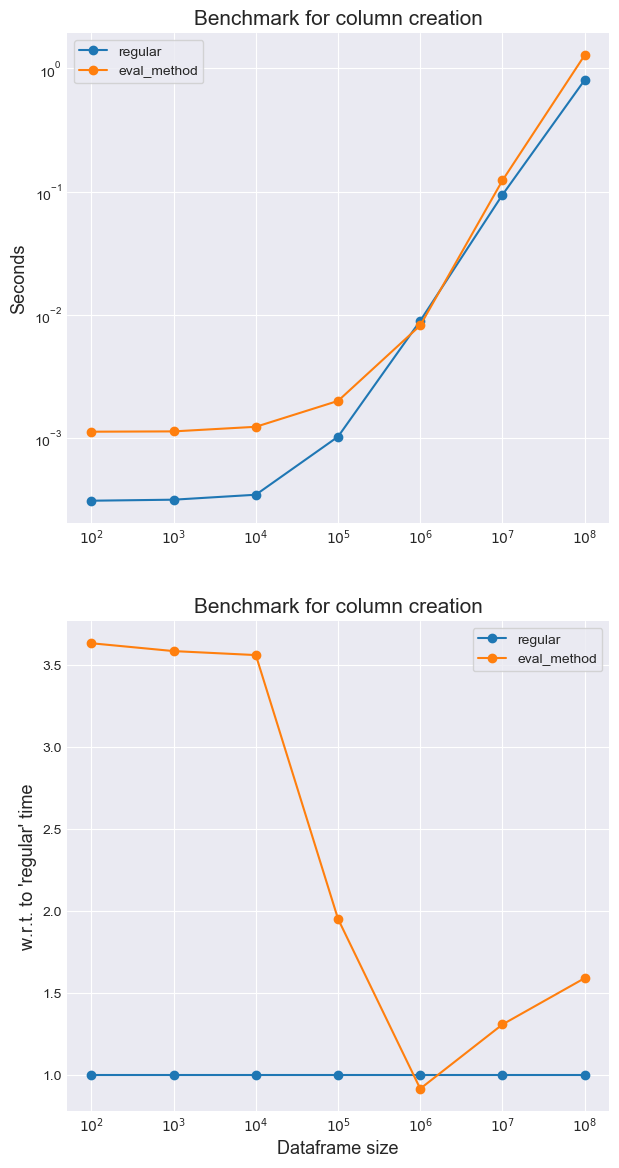
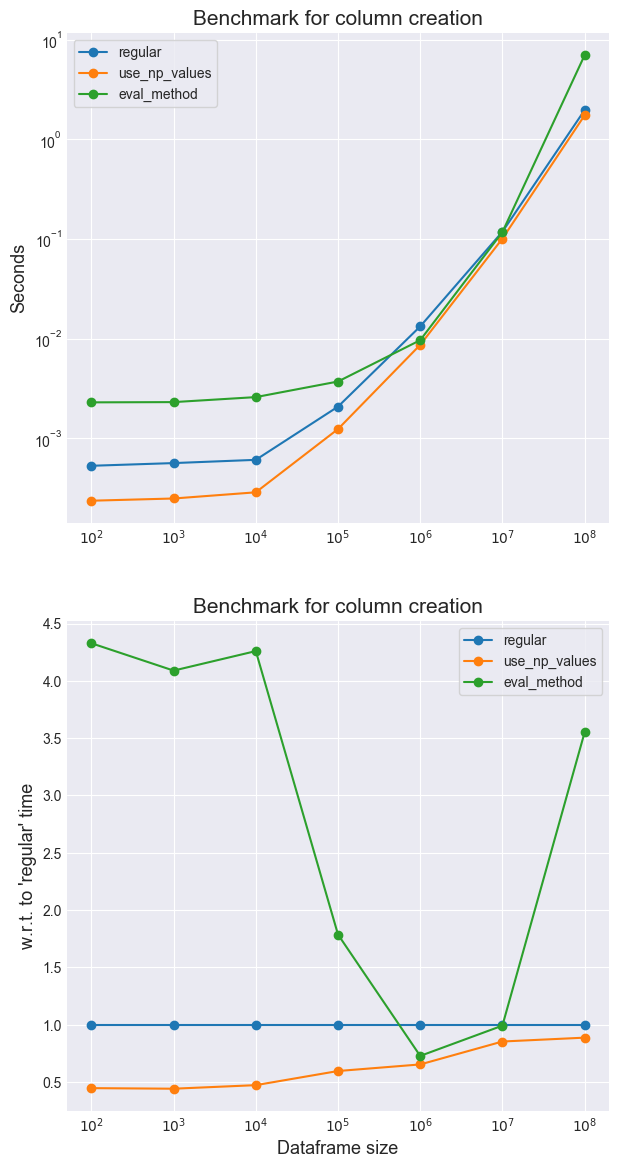
create column using series np.values

diff --git a/benchmark_create_column.py b/benchmark_create_column.py
@@ -5,13 +5,17 @@ def regular(df):
     df["E"] = df["A"] * df["B"] + df["C"]
 
 
+def use_np_values(df):
+    df["E"] = df["A"].values * df["B"].values + df["C"].values
+
+
 def eval_method(df):
     df.eval("E = A * B + C", inplace=True)
 
 
 params = {
     "df_generator": 'pd.DataFrame(np.random.randint(1, df_size, (df_size, 4)), columns=list("ABCD"))',
-    "functions_to_evaluate": [regular, eval_method],
+    "functions_to_evaluate": [regular, use_np_values, eval_method],
     "title": "Benchmark for column creation",
 }
 
